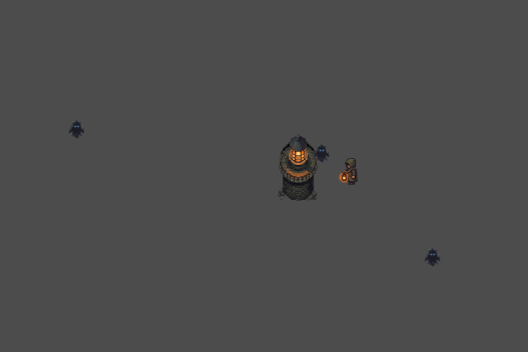
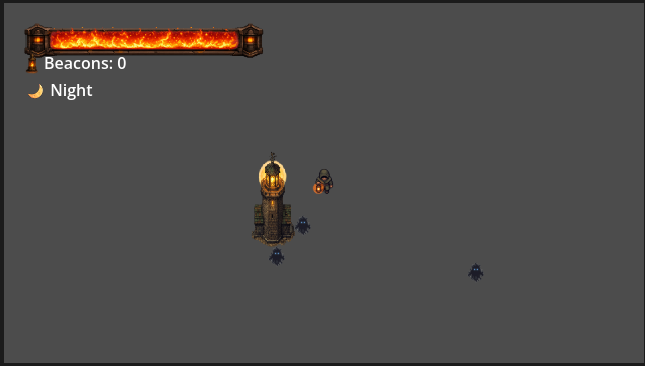
update README

diff --git a/README.md b/README.md
@@ -1,67 +1,111 @@
 # 🌟 Last Light
 
-> **A 2D top-down survival & base-defense game built with Godot 4.**
+> **A 2D top-down survival & base-defense game built with Godot 4.7**
 
 <p align="center">
-  <img src="Readme_assets/fireball.png" width="700"/>
+  <img src="README_assets/fireball.png" width="700"/>
 </p>
 
-You play as **The Keeper**, guardian of the world's final lighthouse.
+**Last Light** is a pixel-art survival and base-defense game where you play as **The Keeper**, guardian of the world's final lighthouse.
 
-Every night, shadow creatures emerge from the surrounding darkness to extinguish the Last Light. During the day, the Keeper repairs the lighthouse and prepares for the next assault.
+As darkness engulfs the world, shadow creatures emerge every night to extinguish humanity's last source of light. Defend the lighthouse, collect Beacons from defeated enemies, repair the flame during the day, and survive increasingly dangerous nights.
 
-> 📖 **Complete story, lore, mechanics, and design ideas:** `Docs/GameDesign.md`
+> 📖 **Story, lore, and design documentation:** `Docs/GameDesign.md`
 
 ---
 
 # ✨ Current Features
 
 ## 🧍 Player
+
 - 4-direction movement
-- Mouse-aimed combat
-- Fireball projectile system
+- Mouse aiming
+- Fireball shooting
+- Directional sprites
+- Beacon inventory
+
+---
 
 ## ⚔ Combat
-- Projectile collision detection
+
+- Projectile collision
 - Enemy health system
-- Enemy death on zero HP
+- Enemy death
+- Beacon drops on enemy death
+- Automatic beacon collection
+
+---
 
 ## 🏰 Lighthouse
-- Fixed at the center of the map
-- Collision system
+
+- Central objective
 - Health system
-- Takes damage from enemies
+- Custom HP Bar
 - Repair mechanic
-- Game Over state
+- Repairs consume Beacons
+- Cannot repair at full HP
+- Repair available only during Day
+- Game Over when destroyed
+
+---
 
 ## 👾 Enemies
-- ShadowCrawler AI
+
+### ShadowCrawler
+
 - Moves toward the lighthouse
-- Stops to attack in range
+- Stops and attacks in range
 - Periodic damage
-- Multiple enemies supported
+- Health system
+- Retreats during Dawn
+- Despawns after reaching the Veil
+- Drops Beacons on death
 
-## 🌑 Enemy Spawning
-- Automatic spawning
-- Configurable spawn interval
+---
 
-## 🌗 Day & Night Cycle
+## 🌙 Day & Night Cycle
 
 Current cycle:
 
-```
-☀ Day
-    ↓
+```text
+☀ Day
+   ↓
 🌇 Dusk
-    ↓
+   ↓
 🌙 Night
-    ↓
+   ↓
 🌅 Dawn
-    ↓
-☀ Day
+   ↓
+☀ Day
 ```
 
-Enemy spawning currently occurs during the **Night** phase.
+### Behaviour
+
+| Phase | Behaviour |
+|--------|-----------|
+| ☀ Day | Repair lighthouse |
+| 🌇 Dusk | Transition into darkness |
+| 🌙 Night | Enemy spawning begins |
+| 🌅 Dawn | Enemies retreat into the Veil |
+
+---
+
+## 💎 Beacon System
+
+- Beacons drop from defeated enemies
+- Automatically collected by the player
+- Stored in player inventory
+- Required to repair the lighthouse
+- One repair consumes one Beacon
+
+---
+
+## 📺 User Interface
+
+- Lighthouse custom HP Bar
+- Lighthouse HP text
+- Beacon counter
+- Current phase indicator
 
 ---
 
@@ -88,78 +132,118 @@ Enemy spawning currently occurs during the **Night** phase.
 ```text
 Assets/
     Sprites/
+    UI/
 
 Docs/
     Concepts_art/
     GameDesign.md
 
 Scenes/
+    Beacon/
     Enemies/
     EnemySpawner/
     GameManager/
+    HUD/
     LightHouse/
     Player/
     Projectiles/
-    main.tscn
 
 project.godot
 ```
 
 ---
 
-# 🗺 Development Roadmap
+# 🚧 Development Roadmap
 
-- [ ] Enemy retreat during dawn
-- [ ] Beacon resource system
-- [ ] Resource collection
-- [ ] Repair cost mechanics
+## Gameplay
+
 - [ ] Multiple enemy types
-- [ ] Progressive enemy waves
+- [ ] Progressive difficulty
+- [ ] Boss encounters
+- [ ] Lighthouse upgrades
+- [ ] Crafting & upgrades
+
+## Visuals
+
 - [ ] Dynamic lighting
-- [ ] Fog of Darkness
-- [ ] User Interface
-- [ ] Sound effects & music
+- [ ] Veil / Fog of Darkness
+- [ ] Particle effects
+- [ ] Day & Night ambience
+- [ ] Camera shake
+- [ ] Animated UI
+
+## Audio
+
+- [ ] Background music
+- [ ] Ambient sounds
+- [ ] Combat SFX
+
+## Polish
+
 - [ ] Main Menu
-- [ ] Save system
+- [ ] Pause Menu
+- [ ] Save System
+- [ ] Settings Menu
 
 ---
 
 # 🚀 Running the Project
 
 1. Clone the repository.
-2. Open using **Godot Engine 4.7** or later.
+2. Open the project with **Godot Engine 4.7** or later.
 3. Run `main.tscn`.
 
 ---
 
-# 📌 Project Status
+# 📌 Current Progress
 
-> 🚧 **Currently in Development**
+### ✅ Implemented
 
-This project is being developed while learning **Godot**, **game programming**, and **game design**.
-
-New gameplay systems and mechanics are added incrementally.
+- Player movement
+- Combat system
+- Lighthouse health & repair
+- Enemy AI
+- Day/Night cycle
+- Enemy retreat system
+- Beacon economy
+- HUD
+- Custom HP Bar
+- Game Over system
 
 ---
 
 # 📸 Screenshots
 
-### Enemy Spawn
+## Enemy Spawn
 
 <p align="center">
-  <img src="Readme_assets/shadow.png" width="700"/>
+  <img src="README_assets/shadow.png" width="700"/>
 </p>
 
 ---
 
-### Combat
+## Combat
 
 <p align="center">
-  <img src="Readme_assets/fireball.png" width="700"/>
+  <img src="README_assets/fireball.png" width="700"/>
 </p>
 
 ---
 
-# 📜 License
+## License
 
 This project is currently intended for **educational and portfolio purposes**.
+
+---
+
+## Developer Notes
+
+This project is being developed to learn:
+
+- Game Programming
+- Godot Engine
+- Gameplay Architecture
+- AI Behaviour
+- UI Systems
+- Pixel Art Workflow
+- Software Design
